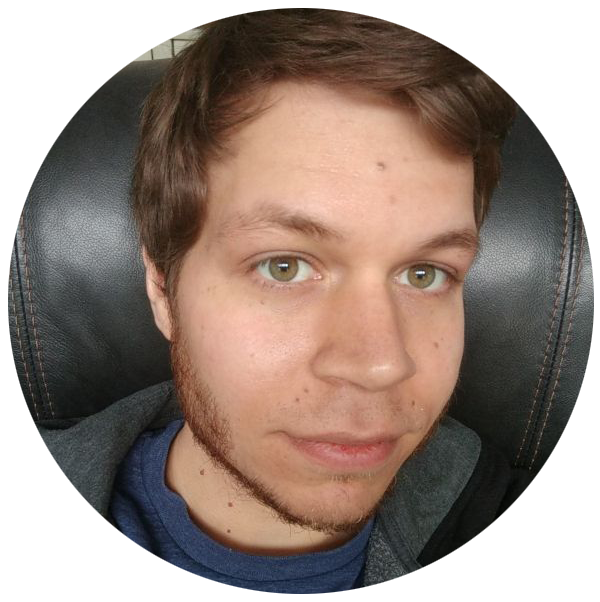
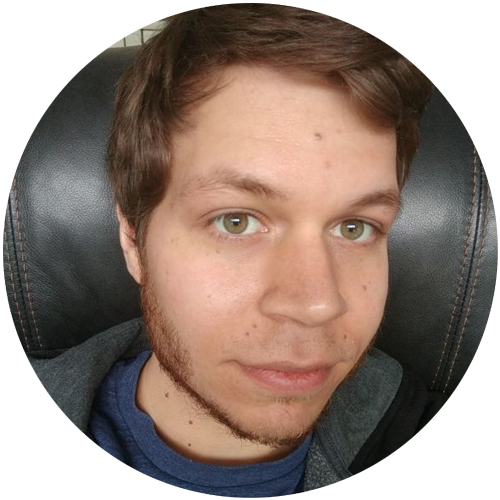
changed about page

diff --git a/Portfolio/about.html b/Portfolio/about.html
@@ -40,24 +40,27 @@
     <button id="nav-toggle">&#9776;</button>
   </div>
   <div class="real-content">
-    <div class="row text-center">
-      <div class="col-lg-12">
+    <div class="row">
+      <div class="col-lg-8">
+        <h1 class="project-page about-header">Hi, I'm Tim Decloniemaclennan</h1>
+        <h2 class="project-page">A little about me...</h2>
+        <p class="project-text">
+          Two years ago, I came to the University of Michigan hoping to change my life and my career, and I've successfully accomplished both. I'm now the proud holder of a Master's degree in Human Computer Interaction, where I specialize in User Experience Design and Research. In my past I've also earned two bachelor's degree from Michigan State University, where I studied the art of media communication and creative advertising.
+        </p>
+      </div>
+      <div class="col-lg-4">
         <img src="images/me.png" class="img-fluid mx-auto d-block profile" alt="Tim Decloniemaclennan, UX Researcher and Designer">
-        <h1 class="project-page">Hi, I'm Tim Decloniemaclennan...yes that's my real last name</h1>
       </div>
     </div>
     <div class="row">
-      <h2 class="project-page">A little about me...</h2>
-      <p class="project-text">
-        Two years ago, I came to the University of Michigan hoping to change my life and my career, and I've successfully accomplished both. I'm now the proud holder of a Master's degree in Human Computer Interaction, where I specialize in User Experience Design and Research. In my past I've also earned two bachelor's degree from Michigan State University, where I studied the art of media communication and creative advertising.
-      </p>
       <h2 class="project-page">Why User Experience?</h2>
-      <p class="project-text">Have you ever experienced one of those moments in your life where your using or doing something and get frustrated to no end because you know it can be better or easier? This is the force that drove me into becoming a User Experience professional. I believe everything in this world can be improved, as long as things are approached with the right mindset and data. Luckily, this is the driving force behind User Experience; where you go out and learn about the real problems of people, examine them critically, and then try to craft unique and creative solutions to solve their problems. I've been doing this for over 3 years, and I don't plan on stopping anytime soon.</p>
+      <p class="project-text">Have you ever experienced one of those moments in your life where your using or doing something and get frustrated to no end because you know it can be better or easier? This is the force that drove me into becoming a User Experience professional. I believe everything in this world can be improved, as long as things are approached with the right mindset, data, and creativity. Luckily, this is the driving force behind User Experience; where you go out and learn about the real problems of people, examine them critically, and then try to craft unique and creative solutions to solve their problems. I've been doing this for over 3 years, and I don't plan on stopping anytime soon.</p>
 
-      <p class="project-text">My first time ever doing anything User Experience related came to me when I stumbled upon an internship focused on creating accessible websites. At the time, I had no idea what that meant; aren't all websites accessible? I can open them up in my browser just fine, so what's the problem? I was intrigued about the position, so I decided to apply, and that's when I quickly learned how big an idiot I am. Apparently, accessible meant creating a website so anyone can use it, regardless of any disabilities or impairments they may have. At this point your probably wondering how I got that job, right? Me too, I still don't know why they hired me, but they did, and I couldn't be more greatful. Little did I know that internship would be the foundation and spark that got me interested in the User Experience field.
+      <h2 class="project-page"> What makes me different? </h2>
+      <p class="project-text"> User experience is a field where you get to go out, talk with people, and design solutions to their problems. We try to be the first ones in the world to create cutting edge designs, or target the most popular audiences on the planet. The problem is, in our quest to design for the majority, we often forget about other user groups, in particular those with accessibility issues. I challenge that notion, I've been trained extensively in accessible design, and I use those principles in everything I design to make sure all users are accounted for. Even this website has many accessibility features to help make it easier for those which rely on assistive technologies.
       </p>
       <h2 class="project-page"> What else do I do? </h2>
-      <p class="project-text"> Work and school are great, but I also love to enjoy my free time hanging out with great friends, going to red wings games, solving escape rooms, and traveling</p>
+      <p class="project-text"> I love the UX field, but I also love to enjoy life. When I'm not at work, I'm often hunting around for new escape rooms to break out of, going to sporting events (Let's Go Red Wings), or hanging out with some of the best friends a guy can have. I also try to explore a new city or country at least once a year, which has led to some amazing experiences.</p>
     </div>
     <div class="row">
       <div class="col-lg-12">

diff --git a/Portfolio/style.css b/Portfolio/style.css
@@ -110,7 +110,6 @@ img {
 }
 
 .profile {
-  max-width: 500px;
   padding-top: 5%;
   padding-bottom: 3%;
 }
@@ -159,6 +158,9 @@ h4 {
   font-weight: bold;
 }
 
+.about-header {
+  padding-bottom: 3%;
+}
 
 /*iFrame Stuff*/
 iframe {
